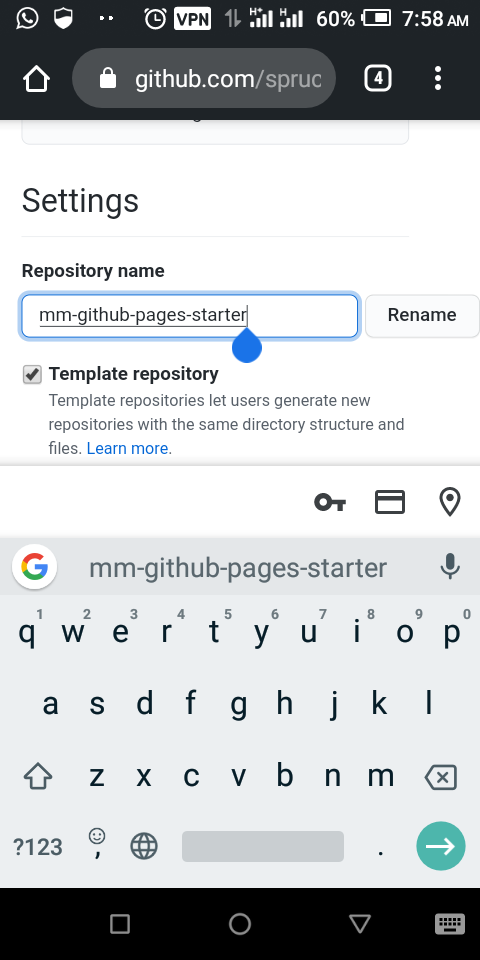
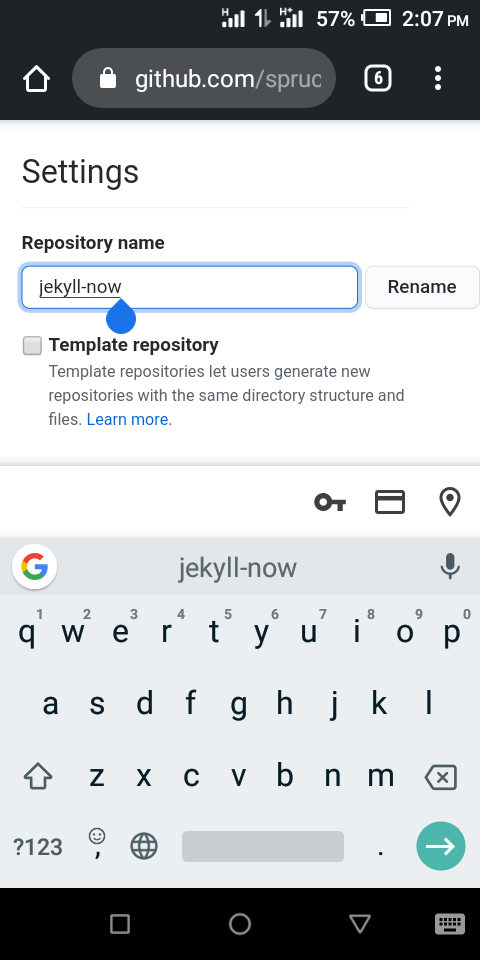
Deploy spruce.com.ng to github.com/iamspruce/iamspruce.github.io.git:master

diff --git a/how-to-create-a-blog-on-mobile-phone-with-jekyll-on-github.html b/how-to-create-a-blog-on-mobile-phone-with-jekyll-on-github.html
@@ -180,11 +180,8 @@ Yes, Yes and Yes you can create a website with your phone, you can blog from you
 </p>
 
 <h1>
-Previews
-</h1>
-<h6>
 What is moblie bloging?
-</h6>
+</h1>
 <p>
 Mobile blogging is a method of <b>publishing to a website or blog from a mobile phone or other handheld device.</b> A mobile blogs help habitual bloggers to post write-ups directly from their phones even when on the move.
 </p>
@@ -214,7 +211,7 @@ SPCK Editor
 </li>
 </ol>
 <p>
-Before you beging this series with me, it is required you just have a basic knowledge of Html, Css and javascript is optional for now, well if you dont have a basic knowledge and you are just hearing about all this for the first time, dont worry this articles <a href="https://developer.mozilla.org/en-US/docs/Learn/Getting_started_with_the_web"> Getting Started With The Web </a>, <a href="https://developer.mozilla.org/en-US/docs/Learn/HTML">Structuring the web with HTML </a>. Now this two great articles should basically get you started 
+Before you beging this series with me, it is required you just have a basic knowledge of Html, Css and javascript is optional for now, well if you dont have a basic knowledge and you are just hearing about all this for the first time, dont worry this articles <a href="https://developer.mozilla.org/en-US/docs/Learn/Getting_started_with_the_web"> Getting Started With The Web </a>, <a href="https://developer.mozilla.org/en-US/docs/Learn/HTML">Structuring the web with HTML </a> should basically get you started. 
 </p>
 
 <p>
@@ -229,7 +226,7 @@ Head over to play store search for "Spck editor" and install it. This editor is 
 <div class="info info--note">
    <div class="info__content">
        <strong>Note:</strong> It is required that you create a github account and have downloaded and installed the app before you continue <br />
-       Please don't use Opera Mini, use a modern browser like Chrome of Firefox
+       Please don't use Opera Mini, use a modern browser like Chrome or Firefox
                 </div>
           </div>
 
@@ -239,11 +236,11 @@ Getting Started
 <p>
 Now make sure you have created your Github account by signing up <br />
 Now Click below link (Open in a different tab) <br />
-<a href="https://github.com/mmistakes/mm-github-pages-starter">Minimal mistakes starter theme
+<a href="https://github.com/mmistakes/jekyll-now">Jekyyl now starter theme
 </a>
 </p>
 <figure class="p-article__img">
-  <img src="/assets/img/posts/mobile-blog/jekyll-theme.png" alt="minimal mistakes starter theme" />
+  <img src="/assets/img/posts/mobile-blog/jekyll-theme.png" alt="Jekyyl now starter theme" />
 
   <figcaption>
     You should see a page that looks like this
@@ -254,7 +251,7 @@ Now Click below link (Open in a different tab) <br />
   click on the <b>Forks icon</b> 
  </p>
 <figure class="p-article__img">
-  <img src="/assets/img/posts/mobile-blog/click-forks.png" alt="minimal mistakes fork icon" />
+  <img src="/assets/img/posts/mobile-blog/click-forks.png" alt="Jekyyl now fork icon" />
 
   <figcaption>
     Click on the forks icon
@@ -264,7 +261,7 @@ Now Click below link (Open in a different tab) <br />
 The page would reload and you would see a desktop view of the page, just look at the right side of the page at the header (top of the webpage) and click on <b>fork</b>
 </p>
 <figure class="p-article__img">
-  <img src="/assets/img/posts/mobile-blog/fork-theme.png" alt="minimal mistakes starter theme" />
+  <img src="/assets/img/posts/mobile-blog/fork-theme.png" alt="Jekyyl now starter theme" />
 
   <figcaption>
     Click the fork icon there
@@ -273,10 +270,10 @@ The page would reload and you would see a desktop view of the page, just look at
 
 <p>
 After doing that the next page you are going to see would ask you to change your <b>Forked theme name</b> <br />
-Now change the name of the website to your "github-username.github.io"
+Now change the name of the website to: "github-username.github.io"
  </p>
 <figure class="p-article__img">
-  <img src="/assets/img/posts/mobile-blog/rename-theme.png" alt="minimal mistakes starter theme" />
+  <img src="/assets/img/posts/mobile-blog/rename-theme.png" alt="Jekyyl now starter theme" />
 
   <figcaption>
    Old one looks like this
@@ -284,7 +281,7 @@ Now change the name of the website to your "github-username.github.io"
  </figure>
 
 <figure class="p-article__img">
-  <img src="/assets/img/posts/mobile-blog/rename-theme-me.png" alt="rename minimal mistakes starter theme" />
+  <img src="/assets/img/posts/mobile-blog/rename-theme-me.png" alt="rename Jekyyl now starter theme" />
 
   <figcaption>
    Change it to something like this "with your own github username"
@@ -304,12 +301,13 @@ click on the dropdown menu at the top of the page
  </figure>
 <p>
  <ol>
-<li> from the dropdown: </li>
+ from the dropdown:
 <li> Click on settings </li>
 <li> developer settings </li>
 <li> personal access tokens </li>
 <li> Generate New Token </li>
-<li> You may be asked for password, just enter your github password and continue </li> </ol>
+<li> You may be asked for password, just enter your github password and continue </li> 
+</ol>
  </p>
 <figure class="p-article__img">
   <img src="/assets/img/posts/mobile-blog/spck-token.png" alt="Set up github personal token" />
@@ -322,14 +320,14 @@ click on the dropdown menu at the top of the page
  <ol>
 <li> Give it a note: Spck editor </li>
 <li>click on the repo box (select everything under it) </li>
-<li>Scroll select <b>write:packages&lt;/&gt; and <b> admin:org</b> &lt;/li&gt;
+<li>Scroll select <b>write:packages</b> and <b> admin:org</b> </li>
 <li>Click "Generate Token"</li>
- &lt;/ol&gt;
- &lt;/p&gt;
- <p>
+ </ol>
+ </p>
+<p>
 After you have generated your token ensure you copy it to your phone clipboard because you wont see again unless you re-generate it.
  </p>
-  <figure class="p-article__img">
+<figure class="p-article__img">
   <img src="/assets/img/posts/mobile-blog/spck-token-sucess.png" alt="copy the github personal token" />
 
   <figcaption>
@@ -337,34 +335,34 @@ After you have generated your token ensure you copy it to your phone clipboard b
   </figcaption>
  </figure>
 
- <p>
+<p>
 If you have followed this guide perfectly, you are just a few steps away from your newly phone managed blog or website.
  </p>
 
- <p>
+<p>
 Moving on, Do you remember the "Spck editor" you downloaded earlier? Yep i guess you do <br />
 Now open it up <br />
 And you should see something that looks like this image below
  </p>
- <figure class="p-article__img">
+<figure class="p-article__img">
   <img src="/assets/img/posts/mobile-blog/spck-editor.png" alt="Open Spck editor" />
 
   <figcaption>
  Yep. Click on the first tab and you should see this
   </figcaption>
  </figure>
- <p>
+<p>
 Next step is to look at the <b>PROJECTS</b> tab <br />
 Click on the third icon (The fork icon)
  </p>
- <figure class="p-article__img">
+<figure class="p-article__img">
   <img src="/assets/img/posts/mobile-blog/spck-editor-fork.png" alt="Open Spck editor fork icon" />
 
   <figcaption>
  On the projects tab, click the fork icon (the third icon)
   </figcaption>
  </figure>
- <p>
+<p>
 When you click on fork icon <br />
 Select credentials <br /> 
 Set up your Credentials as follows: 
@@ -373,7 +371,8 @@ password/token: The token you Generated earlier (The one you copied)
 email: for email (The one used in opening your github account) <br />
 Then just Click on "OK"
  </p>
- <p>
+<p>
+ 
 Now its time to clone your website to your mobike phone <br />
 Click on the Fork icon again <br />
 Just enter your Url like this <br />
@@ -383,45 +382,42 @@ for my case (The example we are using in this series) i have <br />
 then just Click on "OK" <br />
 and wait for your website to clone (Speed depends on your internet connection, mine took a few seconds)
  </p>
- <figure class="p-article__img">
+<figure class="p-article__img">
   <img src="/assets/img/posts/mobile-blog/spck-editor-success.png" alt="Successfully clone website on Spck editor" />
 
   <figcaption>
  After you have finished cloning you should see something like this
   </figcaption>
  </figure>
- <p>
+<p>
 Yep, You guessed it, that's all. If you followed the steps correctly then i congratulate you(yeah you can feel proud). You have created a free website, and you can now manage, edit and design it on your mob ile phone.   
  </p>
 
- <p>
+<p>
 To view your website <br />
 go to your browser <br />
 type in your website url <br />
 "github-username.github.io" <br />
 in my case "sprucestatic.github.io"
  </p>
- <figure class="p-article__img">
+<figure class="p-article__img">
   <img src="/assets/img/posts/mobile-blog/theme-preview.jpg" alt="Free website created with jekyll on github" />
 
   <figcaption>
 Your new site should look like this
   </figcaption>
  </figure>
- <p>
+<p>
 Honestly you should be proud now. Welcome to the bloggers and website owners association of the world. <br />
 Now you can go and tell your family members, friends, share it on facebook and twitter, about your new website...  
  </p>
-
- <p>
+<p>
+Though not really much now, Before the end of this series you will learn how to create and design a fully functional blog...
+</p>
+<p>
   Next step is Customizing your new website, and introducing you to <b>GIT</b> on your mobile phone... Thanks for reading.
  </p>
- 
 
-
-
-
-</b></li></ol></p>
 
         </div>
       </footer>
